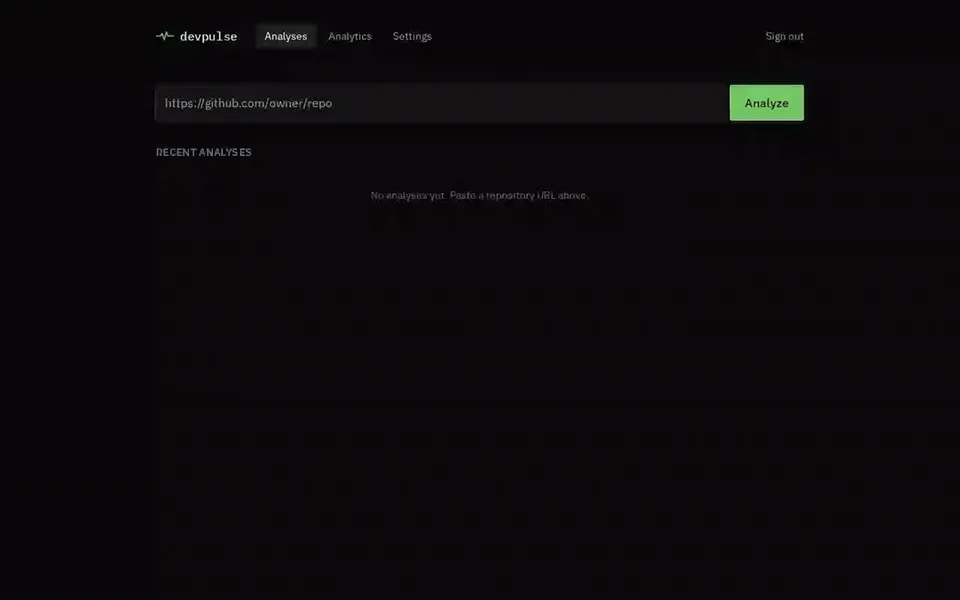
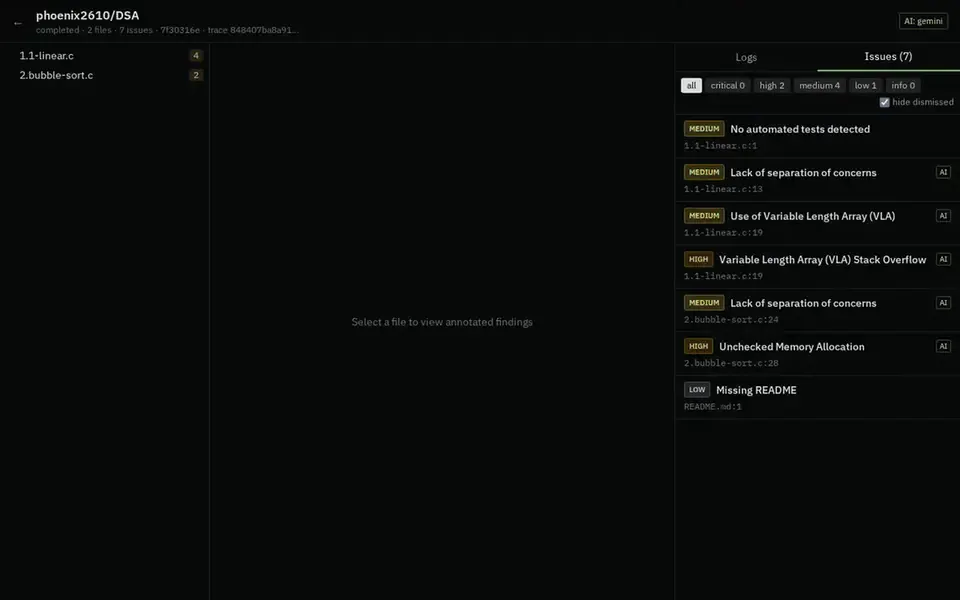
Decode recordings in a worker and draw frames on a canvas for smooth scrolling

diff --git a/src/components/Scrub.tsx b/src/components/Scrub.tsx
@@ -2,6 +2,26 @@ import { useEffect, useRef, useState } from "react";
 import { useReducedMotion } from "motion/react";
 import { SCRUB } from "../scrub-meta";
 
+let worker: Worker | null = null;
+let jobId = 0;
+const jobs = new Map<number, { ok: (f: ImageBitmap[]) => void; fail: (e: unknown) => void }>();
+function decodeFrames(url: string, w: number, h: number, cols: number, rows: number, count: number) {
+  if (!worker) {
+    worker = new Worker(new URL("./scrub.worker.ts", import.meta.url), { type: "module" });
+    worker.onmessage = (e: MessageEvent<{ id: number; frames?: ImageBitmap[]; error?: string }>) => {
+      const job = jobs.get(e.data.id);
+      jobs.delete(e.data.id);
+      if (e.data.frames) job?.ok(e.data.frames);
+      else job?.fail(e.data.error);
+    };
+  }
+  const id = ++jobId;
+  return new Promise<ImageBitmap[]>((ok, fail) => {
+    jobs.set(id, { ok, fail });
+    worker!.postMessage({ id, url: new URL(url, location.href).href, w, h, cols, rows, count });
+  });
+}
+
 type Props = {
   sprite: string;
   label: string;
@@ -10,88 +30,122 @@ type Props = {
   rule?: boolean;
 
   start?: number;
+
+  interactive?: boolean;
 };
 
-export function Scrub({ sprite, label, className = "", rule = true, start = 0 }: Props) {
+export function Scrub({ sprite, label, className = "", rule = true, start = 0, interactive = true }: Props) {
   const meta = SCRUB[sprite];
   const box = useRef<HTMLDivElement>(null);
+  const canvas = useRef<HTMLCanvasElement>(null);
   const bar = useRef<HTMLDivElement>(null);
+  const sheet = useRef<ImageBitmap[] | null>(null);
+  const warmed = useRef(false);
+  const decoding = useRef<Promise<void> | null>(null);
   const frame = useRef(meta ? Math.round(start * (meta.count - 1)) : 0);
-  const [ready, setReady] = useState(false);
+  const pending = useRef<number | null>(null);
+  const [live, setLive] = useState(false);
   const reduce = useReducedMotion();
 
-  const show = (i: number) => {
-    const el = box.current;
-    if (!el || !meta) return;
+  const warm = () => {
+    if (warmed.current) return;
+    warmed.current = true;
+    fetch(`/scrub/${sprite}.webp`).catch(() => (warmed.current = false));
+  };
+
+  const draw = (i: number) => {
     frame.current = i;
-    const col = i % meta.cols;
-    const row = Math.floor(i / meta.cols);
-    const x = meta.cols > 1 ? (col / (meta.cols - 1)) * 100 : 0;
-    const y = meta.rows > 1 ? (row / (meta.rows - 1)) * 100 : 0;
-    el.style.backgroundPosition = `${x}% ${y}%`;
-    if (bar.current) bar.current.style.transform = `scaleX(${meta.count > 1 ? i / (meta.count - 1) : 1})`;
+    if (bar.current && meta) bar.current.style.transform = `scaleX(${meta.count > 1 ? i / (meta.count - 1) : 1})`;
+    const bm = sheet.current?.[i];
+    const c = canvas.current;
+    if (!bm || !c) return;
+    c.getContext("2d")!.drawImage(bm, 0, 0, c.width, c.height);
+  };
+
+  const ensure = () => {
+    if (!meta || sheet.current) return Promise.resolve();
+    const el = box.current!;
+    const w = Math.min(meta.w, Math.round(el.clientWidth * Math.min(window.devicePixelRatio || 1, 2)));
+    const h = Math.round((w * meta.h) / meta.w);
+    return (decoding.current ??= decodeFrames(`/scrub/${sprite}.webp`, w, h, meta.cols, meta.rows, meta.count)
+      .then((frames) => {
+        if (!decoding.current) return frames.forEach((f) => f.close());
+        const c = canvas.current!;
+        c.width = w;
+        c.height = h;
+        sheet.current = frames;
+        draw(pending.current ?? frame.current);
+        pending.current = null;
+        setLive(true);
+      })
+      .catch(() => {
+        decoding.current = null;
+      }));
+  };
+
+  const release = () => {
+    sheet.current?.forEach((f) => f.close());
+    sheet.current = null;
+    decoding.current = null;
   };
 
   useEffect(() => {
-    setReady(false);
     const el = box.current;
-    if (!el || !meta) return;
-    let cancelled = false;
-    const io = new IntersectionObserver(
-      ([entry]) => {
-        if (!entry.isIntersecting) return;
-        io.disconnect();
+    if (!el || !meta || reduce || !interactive) return;
+    const near = new IntersectionObserver(([e]) => e.isIntersecting && warm(), { rootMargin: "600px 0px" });
+    const far = new IntersectionObserver(([e]) => !e.isIntersecting && release(), { rootMargin: "1200px 0px" });
+    near.observe(el);
+    far.observe(el);
+    return () => {
+      near.disconnect();
+      far.disconnect();
+      release();
+    };
 
-        const img = new Image();
-        img.onload = () => !cancelled && setReady(true);
-        img.src = `/scrub/${sprite}.webp`;
+  }, [sprite, reduce, interactive]);
+
+  useEffect(() => {
+    const el = box.current;
+    if (!el || !meta || reduce || !interactive || window.matchMedia("(hover: hover)").matches) return;
+    let timer = 0;
+    let dir = 1;
+    const io = new IntersectionObserver(
+      ([e]) => {
+        window.clearInterval(timer);
+        if (!e.isIntersecting) return;
+        ensure().then(() => {
+          timer = window.setInterval(() => {
+            let next = frame.current + dir;
+            if (next >= meta.count || next < 0) {
+              dir = -dir;
+              next = frame.current + dir;
+            }
+            draw(next);
+          }, 110);
+        });
       },
-      { rootMargin: "900px 0px" },
+      { threshold: 0.4 },
     );
     io.observe(el);
     return () => {
-      cancelled = true;
-      io.disconnect();
-    };
-  }, [sprite, meta]);
-
-  useEffect(() => {
-    if (ready) show(frame.current);
-
-  }, [ready]);
-
-  useEffect(() => {
-    const el = box.current;
-    if (!ready || reduce || !el || !meta || window.matchMedia("(hover: hover)").matches) return;
-    let timer = 0;
-    let dir = 1;
-    const tick = () => {
-      let next = frame.current + dir;
-      if (next >= meta.count || next < 0) {
-        dir = -dir;
-        next = frame.current + dir;
-      }
-      show(next);
-    };
-    const io = new IntersectionObserver(([entry]) => {
-      window.clearInterval(timer);
-      if (entry.isIntersecting) timer = window.setInterval(tick, 120);
-    });
-    io.observe(el);
-    return () => {
       io.disconnect();
       window.clearInterval(timer);
     };
 
-  }, [ready, reduce, meta]);
+  }, [sprite, reduce, interactive]);
 
   if (!meta) return null;
 
   const onMove = (e: React.PointerEvent<HTMLDivElement>) => {
-    if (!ready || reduce || e.pointerType !== "mouse") return;
+    if (reduce || !interactive || e.pointerType !== "mouse") return;
     const r = e.currentTarget.getBoundingClientRect();
-    const t = Math.min(1, Math.max(0, (e.clientX - r.left) / r.width));
-    show(Math.round(t * (meta.count - 1)));
+    const i = Math.round(Math.min(1, Math.max(0, (e.clientX - r.left) / r.width)) * (meta.count - 1));
+    if (i === frame.current && sheet.current) return;
+    if (sheet.current) draw(i);
+    else {
+      pending.current = i;
+      ensure();
+    }
   };
 
   return (
@@ -100,18 +154,26 @@ export function Scrub({ sprite, label, className = "", rule = true, start = 0 }:
         ref={box}
         role="img"
         aria-label={label}
+        onPointerEnter={(e) => interactive && !reduce && e.pointerType === "mouse" && ensure()}
         onPointerMove={onMove}
-        className="w-full cursor-ew-resize bg-surface-2 bg-no-repeat"
-        style={{
-          aspectRatio: `${meta.w} / ${meta.h}`,
-          backgroundImage: `url(/scrub/${sprite}${ready ? "" : "-0"}.webp)`,
-          backgroundSize: ready ? `${meta.cols * 100}% ${meta.rows * 100}%` : "100% 100%",
-          backgroundPosition: "0% 0%",
-        }}
-      />
+        className={`relative w-full overflow-hidden bg-surface-2 ${interactive ? "cursor-ew-resize" : ""}`}
+        style={{ aspectRatio: `${meta.w} / ${meta.h}` }}
+      >
+        <img
+          src={`/scrub/${sprite}-0.webp`}
+          alt=""
+          width={meta.w}
+          height={meta.h}
+          loading="lazy"
+          decoding="async"
+          draggable={false}
+          className={`absolute inset-0 h-full w-full object-cover ${live ? "invisible" : ""}`}
+        />
+        <canvas ref={canvas} className={`absolute inset-0 h-full w-full ${live ? "" : "invisible"}`} />
+      </div>
       {rule && (
         <div className="relative mt-3 h-px w-full bg-line" aria-hidden>
-          <div ref={bar} className="absolute inset-0 origin-left scale-x-0 bg-ink transition-transform duration-75" />
+          <div ref={bar} className="absolute inset-0 origin-left bg-ink" style={{ transform: `scaleX(${meta.count > 1 ? frame.current / (meta.count - 1) : 1})` }} />
         </div>
       )}
     </div>

diff --git a/src/components/scrub.worker.ts b/src/components/scrub.worker.ts
@@ -1,0 +1,16 @@
+type Job = { id: number; url: string; w: number; h: number; cols: number; rows: number; count: number };
+
+self.onmessage = async (e: MessageEvent<Job>) => {
+  const { id, url, w, h, cols, rows, count } = e.data;
+  try {
+    const blob = await (await fetch(url)).blob();
+    const big = await createImageBitmap(blob, { resizeWidth: w * cols, resizeHeight: h * rows, resizeQuality: "high" });
+    const frames = await Promise.all(
+      Array.from({ length: count }, (_, i) => createImageBitmap(big, (i % cols) * w, Math.floor(i / cols) * h, w, h)),
+    );
+    big.close();
+    (self as unknown as Worker).postMessage({ id, frames }, frames);
+  } catch (err) {
+    (self as unknown as Worker).postMessage({ id, error: String(err) });
+  }
+};

diff --git a/src/components/Hero.tsx b/src/components/Hero.tsx
@@ -108,7 +108,7 @@ function Carousel() {
             }`}
             style={{ width: CARD_W, marginLeft: `calc(${CARD_W} / -2)` }}
           >
-            <Scrub sprite={p.clips[0].sprite} start={p.clips[0].start} label={`${p.name}: ${p.clips[0].label}`} rule={false} className="self-center" />
+            <Scrub sprite={p.clips[0].sprite} start={p.clips[0].start} interactive={active} label={`${p.name}: ${p.clips[0].label}`} rule={false} className="self-center" />
             <div className="flex flex-col p-6">
               <h3 className="font-mono text-[17px] font-medium leading-snug text-ink">{p.name}</h3>
               <p className="mt-1 font-mono text-xs text-muted">{p.kind}</p>

diff --git a/src/components/Nav.tsx b/src/components/Nav.tsx
@@ -11,7 +11,7 @@ const LINKS = [
 
 export function Nav() {
   return (
-    <header className="fixed inset-x-0 top-0 z-40 bg-bg/75 backdrop-blur-md">
+    <header className="fixed inset-x-0 top-0 z-40 bg-bg/95">
       <nav className="mx-auto flex h-[72px] max-w-7xl items-center justify-between px-5 sm:px-8" aria-label="Main">
         <a href="#top" className="text-[15px] leading-tight text-ink">
           {PROFILE.first}
